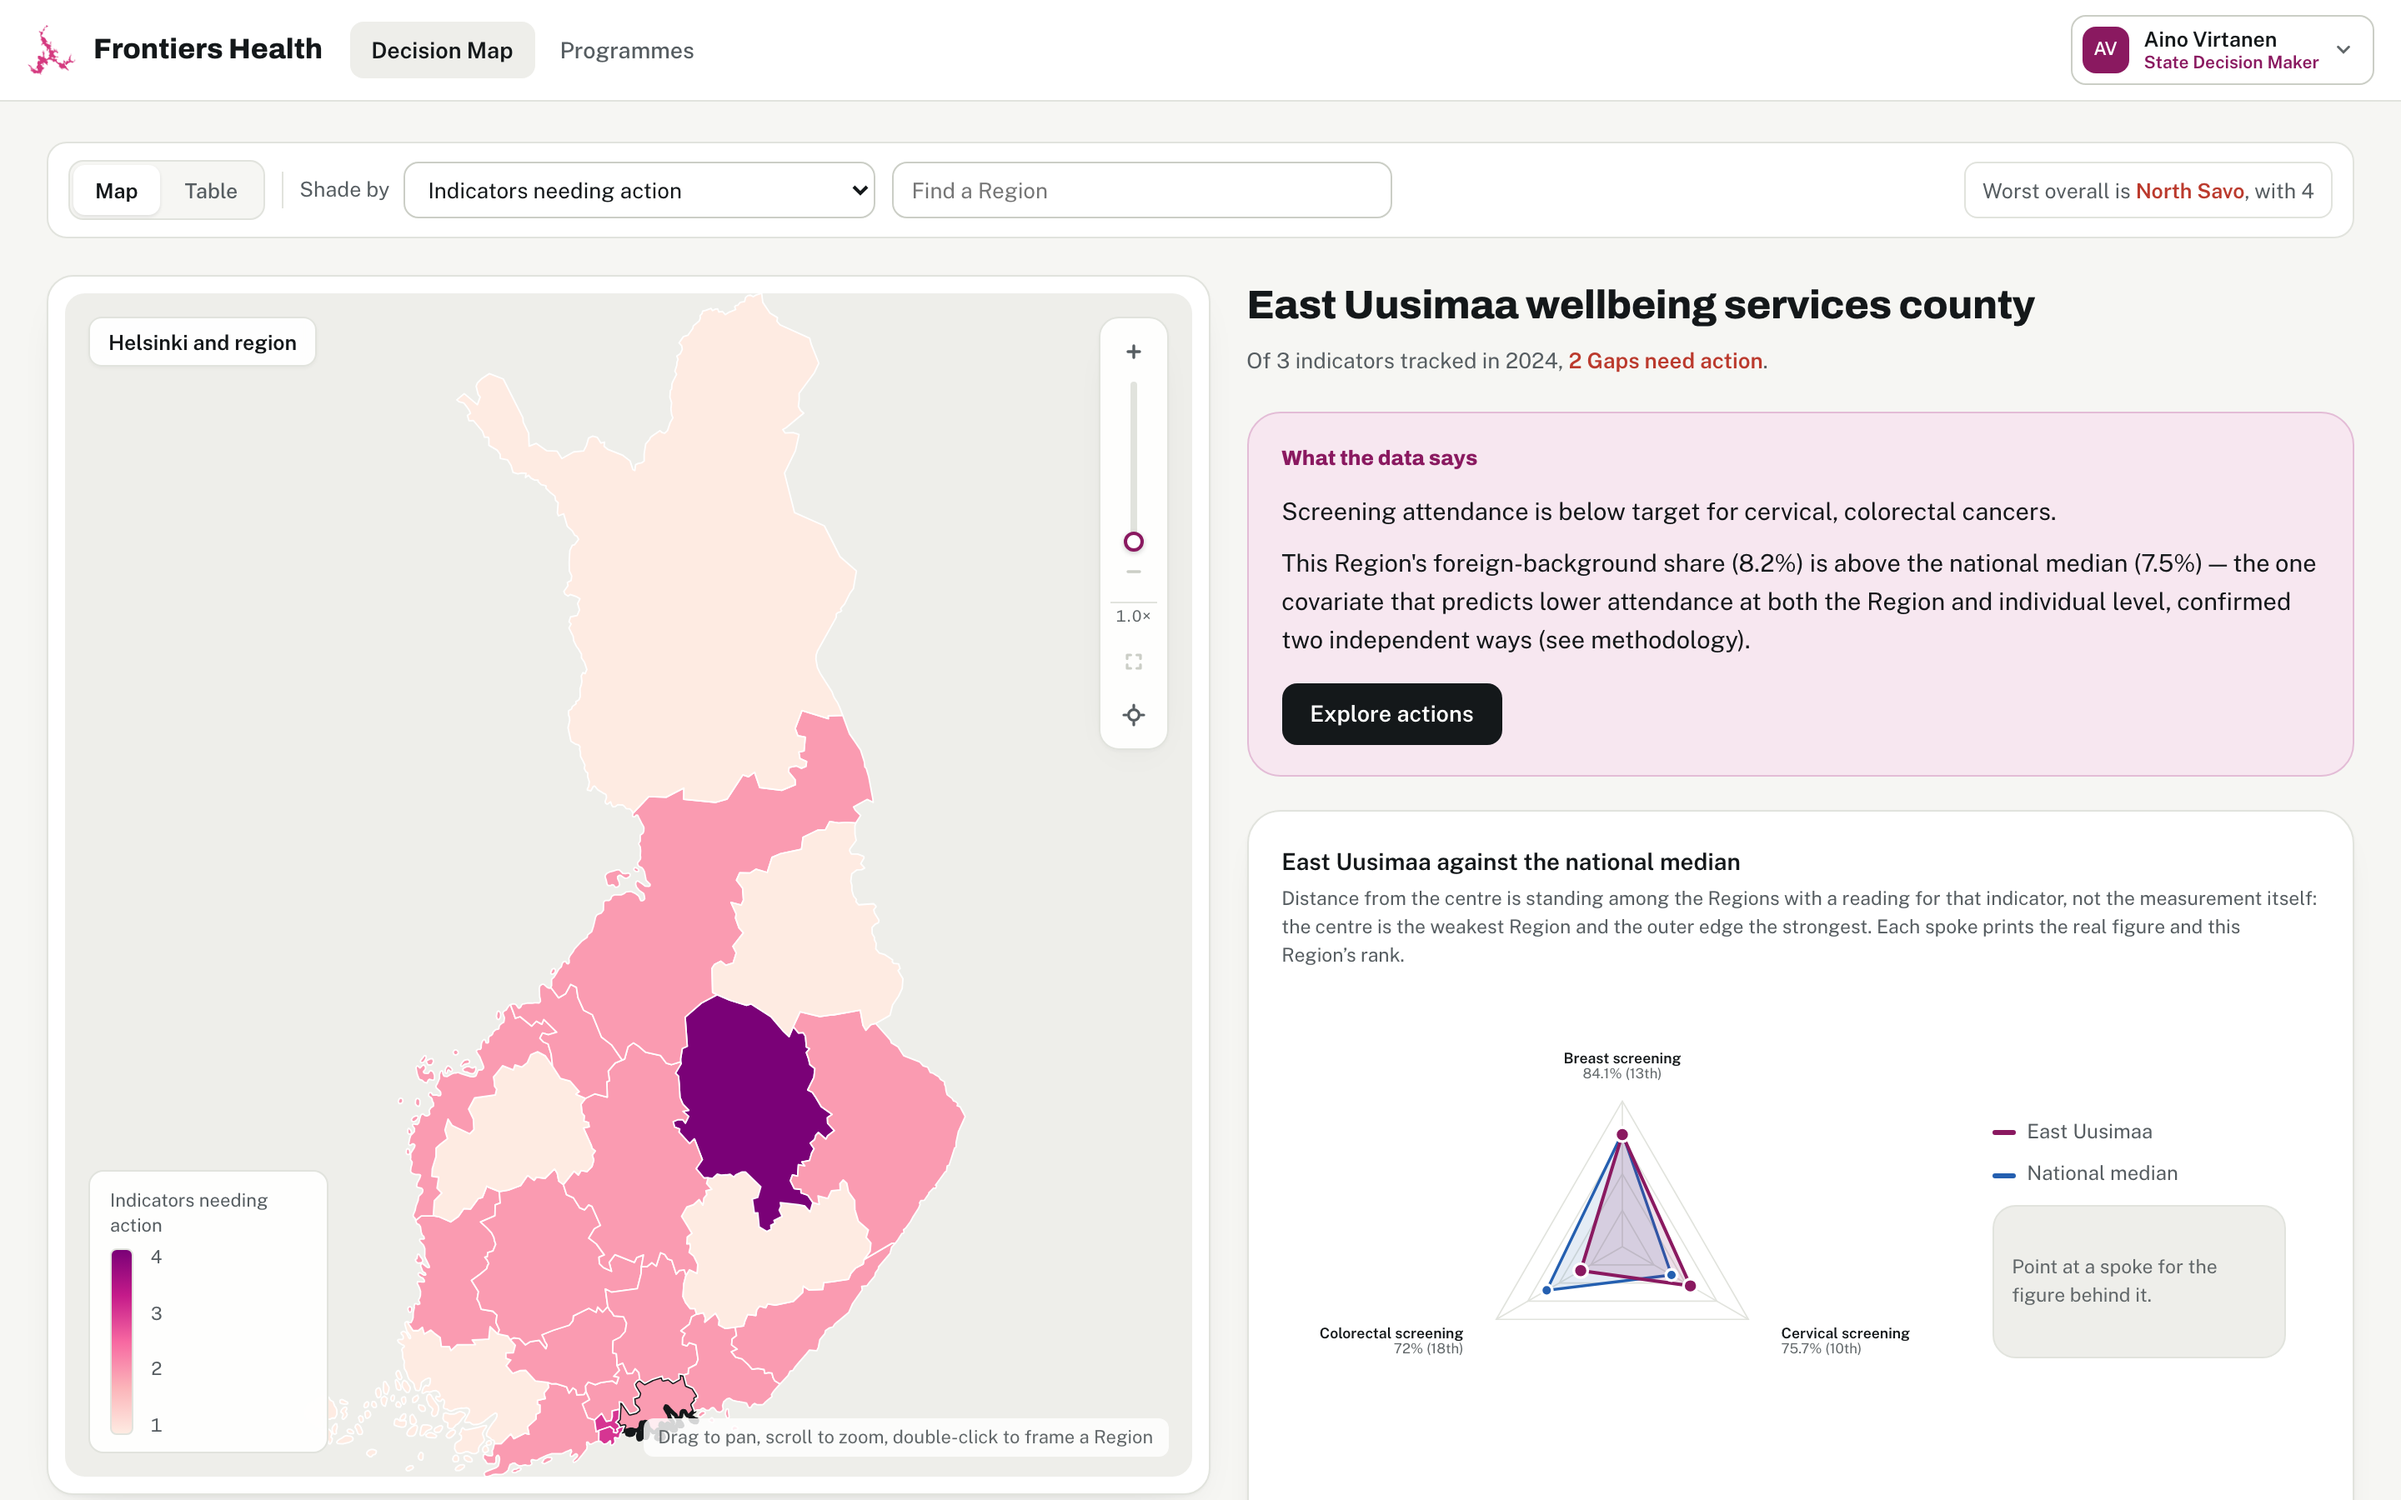
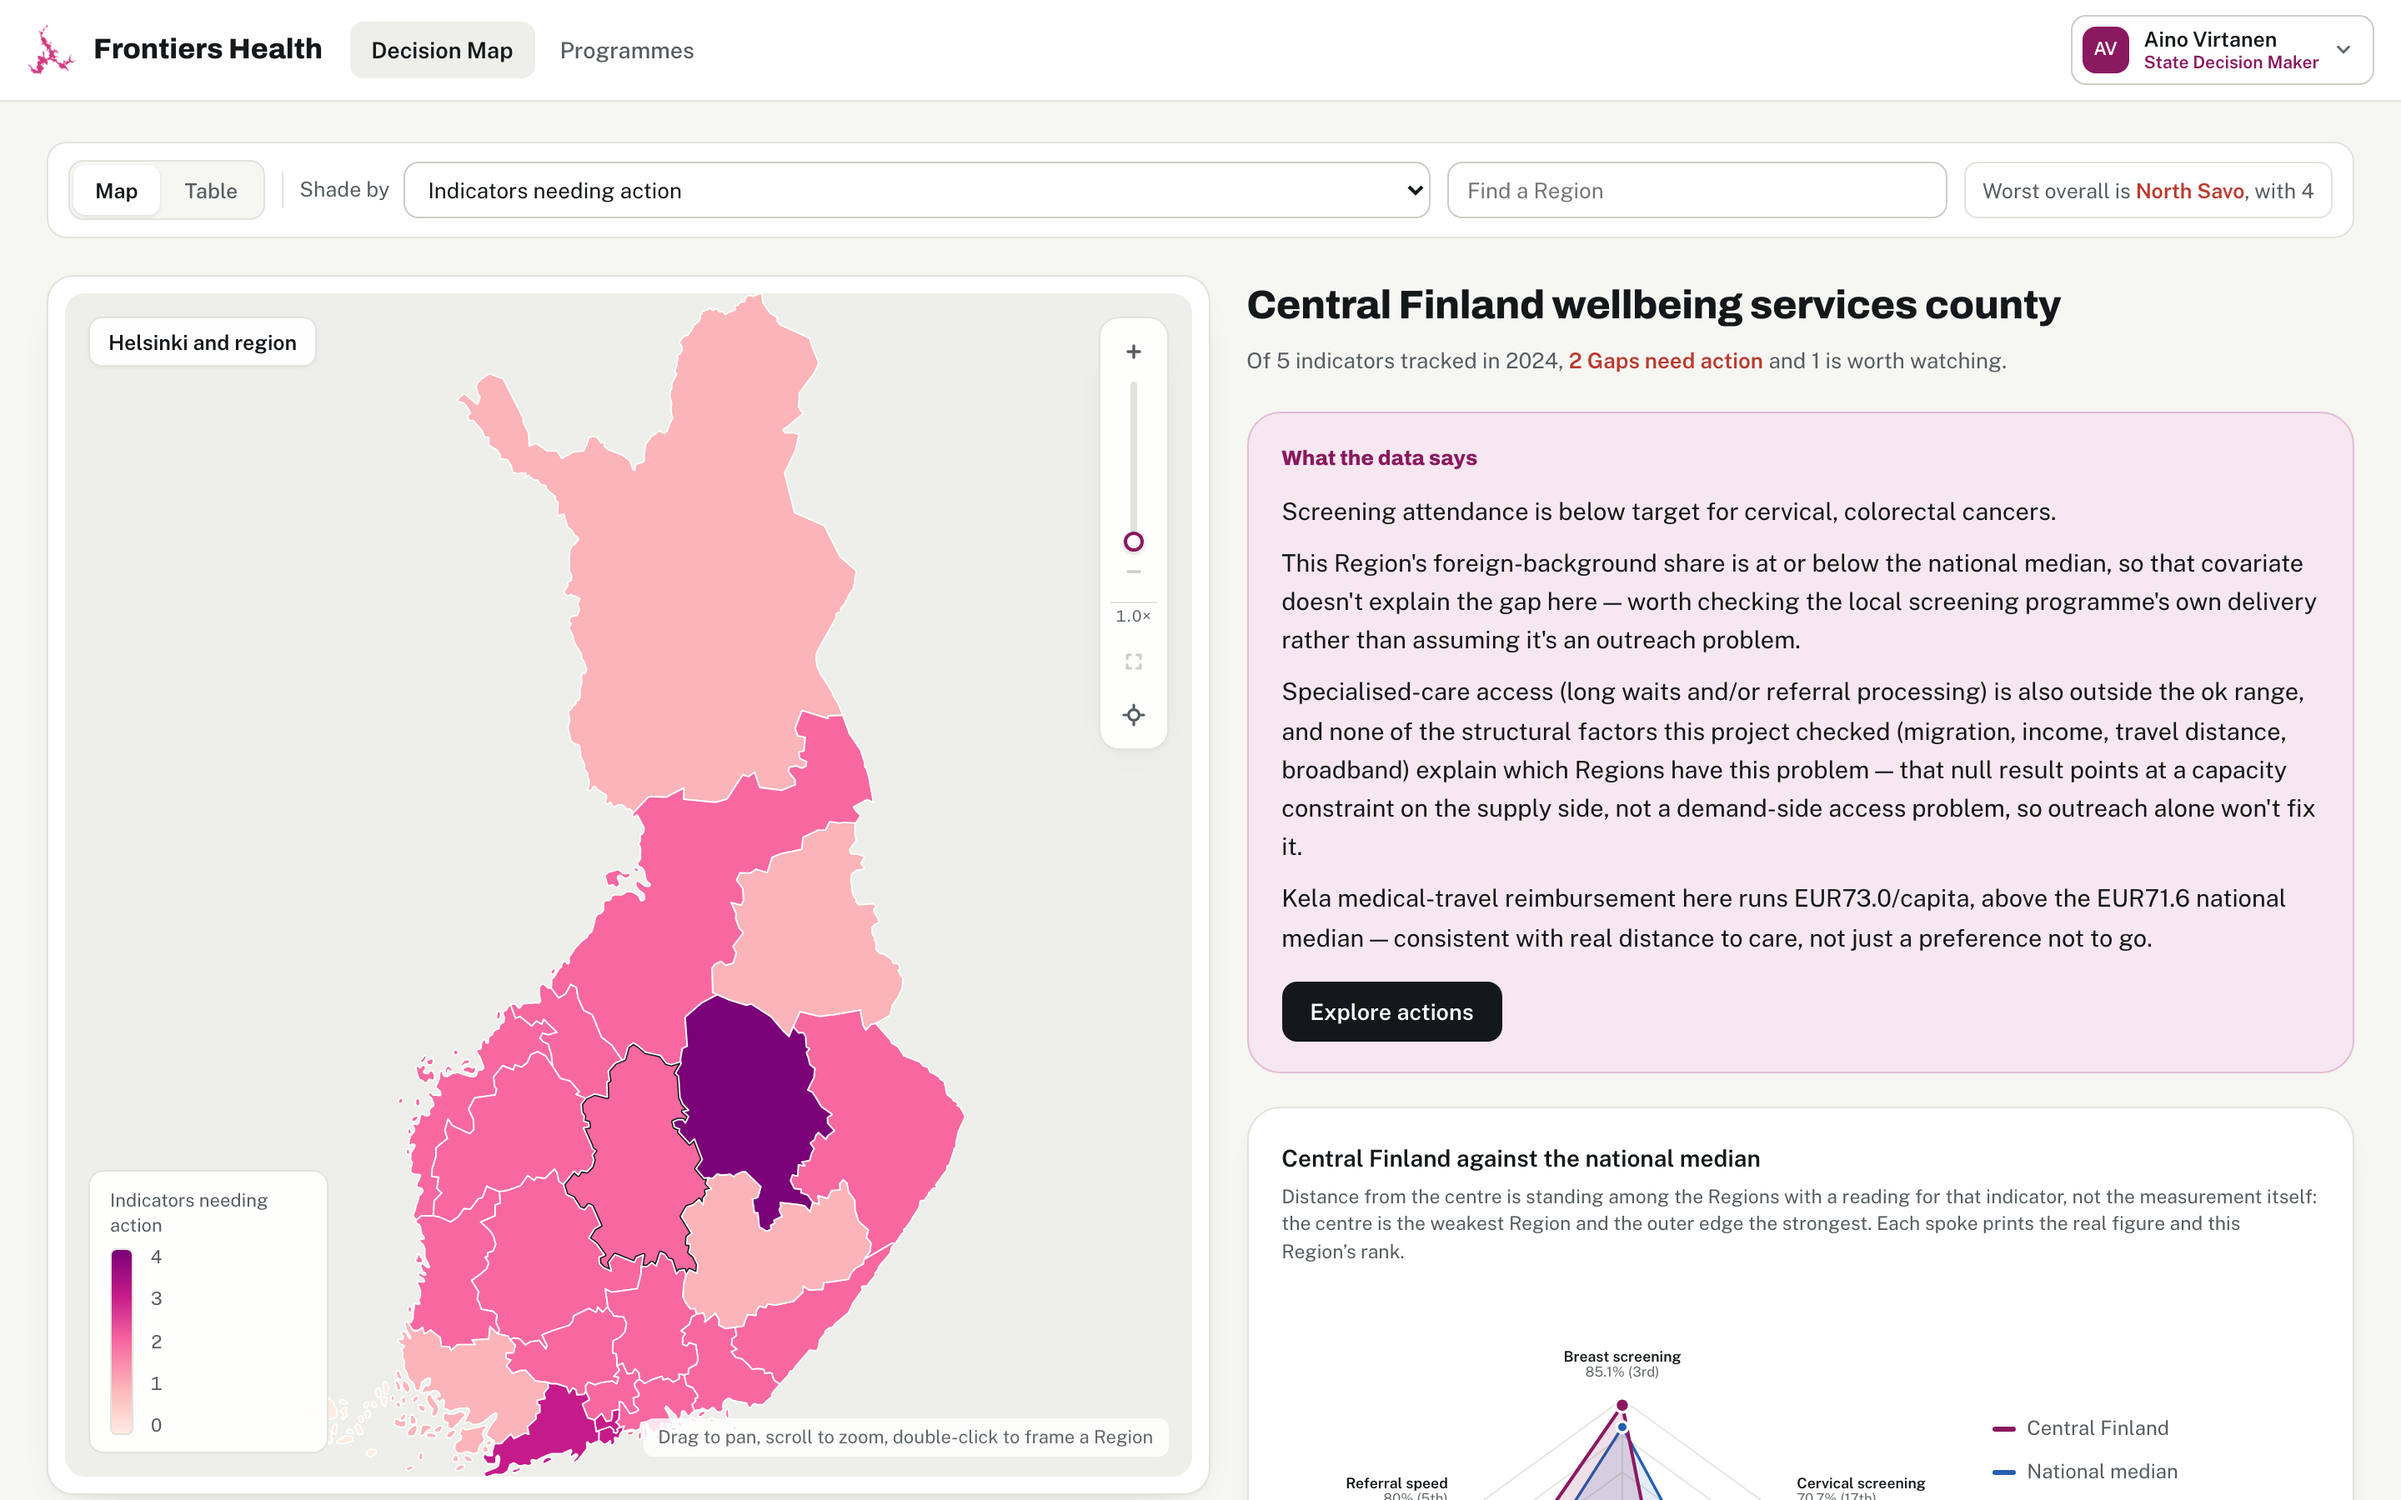
Fix three bugs the real database found
The profile routes had never been run against Postgres — this machine had no
Docker. Installing Postgres directly and running the real seed (8018 values,
1933 Gaps, 256 Narratives) surfaced three things that no fake repository could.

1. Every profile returned 500. `_gap_entries` builds its Indicator through
   `_indicator()`, which requires a `years` key, and its query never selected
   one. The fixtures and the stand-in built Indicator directly, so the path
   that raised KeyError was the one no test exercised. The query now carries
   the same `years` the /indicators query means: every year with a Gap for
   that indicator.

2. The map tile and the Region panel disagreed. /overview counted only
   PROFILE_INDICATOR_ORDER while the profile returned every scored indicator,
   so Helsinki's tile said 3 indicators tracked and its panel said 9.

   That also put a false sentence on screen. common/synthesis.py reads a
   cancer-specific indicator as a screening one, which holds for the five the
   profile was designed around and fails for survival (3625-3627) and the
   treatment measures (2475, 5395) that also carry a cancer_type. Unfiltered,
   Helsinki's synthesis read "Screening attendance is below target for breast,
   cervical, colorectal, all cancers" — "all" being an entitlement-to-refunds
   indicator, not screening at all. The profile now filters to the same list
   /overview counts, and the constant says why, and what to check before adding
[…]

diff --git a/web/src/components/Explorer.tsx b/web/src/components/Explorer.tsx
@@ -131,12 +131,15 @@ export function Explorer({ regions, profiles }: { regions: Region[]; profiles: M
 
         <span style={{ width: 1, height: 22, background: "var(--line)" }} aria-hidden="true" />
 
-        <label className="row" style={{ gap: 8 }}>
-          <span style={{ fontSize: 12.5, color: "var(--ink-2)" }}>Shade by</span>
+        {/* The longest option is a full indicator name, which is wider than a
+            phone. Let the label shrink and the select truncate, or the whole
+            page gains a horizontal scrollbar. */}
+        <label className="row" style={{ gap: 8, minWidth: 0, flex: "1 1 auto" }}>
+          <span style={{ fontSize: 12.5, color: "var(--ink-2)", whiteSpace: "nowrap" }}>Shade by</span>
           <select
             value={metricId}
             onChange={(e) => setParam("by", e.target.value)}
-            style={{ padding: "7px 10px", fontSize: 13, minHeight: 34 }}
+            style={{ padding: "7px 10px", fontSize: 13, minHeight: 34, minWidth: 0, maxWidth: "100%", flex: "1 1 auto" }}
           >
             {metrics.map((m) => (
               <option key={m.id} value={m.id}>

diff --git a/api/app/repository.py b/api/app/repository.py
@@ -52,7 +52,16 @@ IMMIGRANT_BACKGROUND_COVARIATE = "foreign_background_pct"
 
 # The indicators a RegionProfile shows, in reading order: the three screening
 # programmes that have a Target, then the two capacity measures that do not.
-# An indicator outside this list still appears if it has a Gap, after these.
+#
+# `engine` scores twelve indicators, including survival and incidence. The
+# profile deliberately shows this five, for two reasons: /overview counts the
+# same list, so the map tile and the panel agree on "indicators tracked"; and
+# common/synthesis.py reads a cancer-specific indicator as a screening one,
+# which is true of these five and false of survival (3625-3627) and the
+# treatment measures (2475, 5395) that also carry a cancer_type.
+#
+# Adding an indicator here means checking that rule still holds: screening is
+# pathway_stage 'detection'.
 PROFILE_INDICATOR_ORDER = ("3621", "3620", "6103", "3336", "13")
 
 # Same text on every outreach list, whatever the indicator. Grounded in
@@ -324,13 +333,19 @@ class PostgresRepository:
             """
             SELECT i.indicator_id, i.name, i.name_fi, i.unit, i.higher_is_better, i.target_value,
                    i.cancer_type,
+                   -- Same meaning as _INDICATORS.years: every year that has a Gap for this
+                   -- indicator, in any Region. _indicator() requires it.
+                   coalesce((
+                       SELECT array_agg(DISTINCT y.year ORDER BY y.year)
+                       FROM fact_gap_score y WHERE y.indicator_id = i.indicator_id
+                   ), ARRAY[]::integer[]) AS years,
                    g.value, g.reference_kind, g.reference_value, g.deviation, g.direction,
                    g.severity, g.rank, g.n_regions, g.peer_values, g.trend_5y, g.data_quality_notes
             FROM fact_gap_score g
             JOIN dim_indicator i USING (indicator_id)
-            WHERE g.region_id = %s AND g.year = %s
+            WHERE g.region_id = %s AND g.year = %s AND g.indicator_id = ANY(%s)
             """,
-            (region_id, year),
+            (region_id, year, list(PROFILE_INDICATOR_ORDER)),
         ).fetchall()
         if not rows:
             return [], {}
